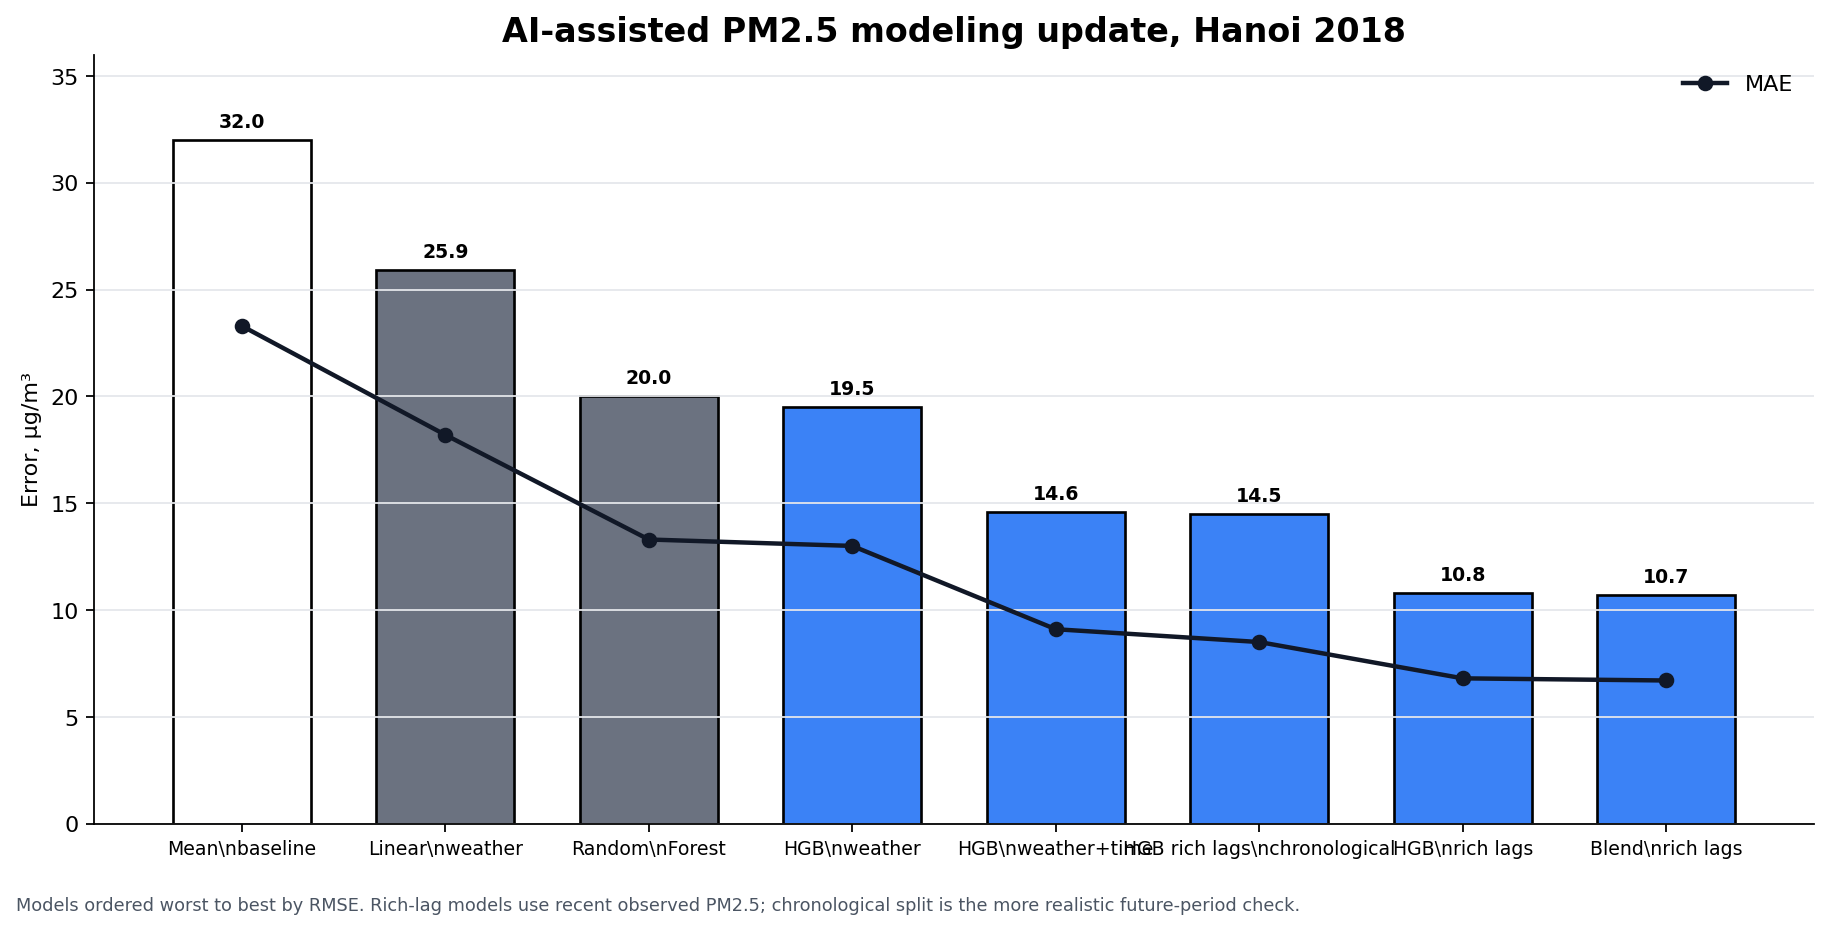
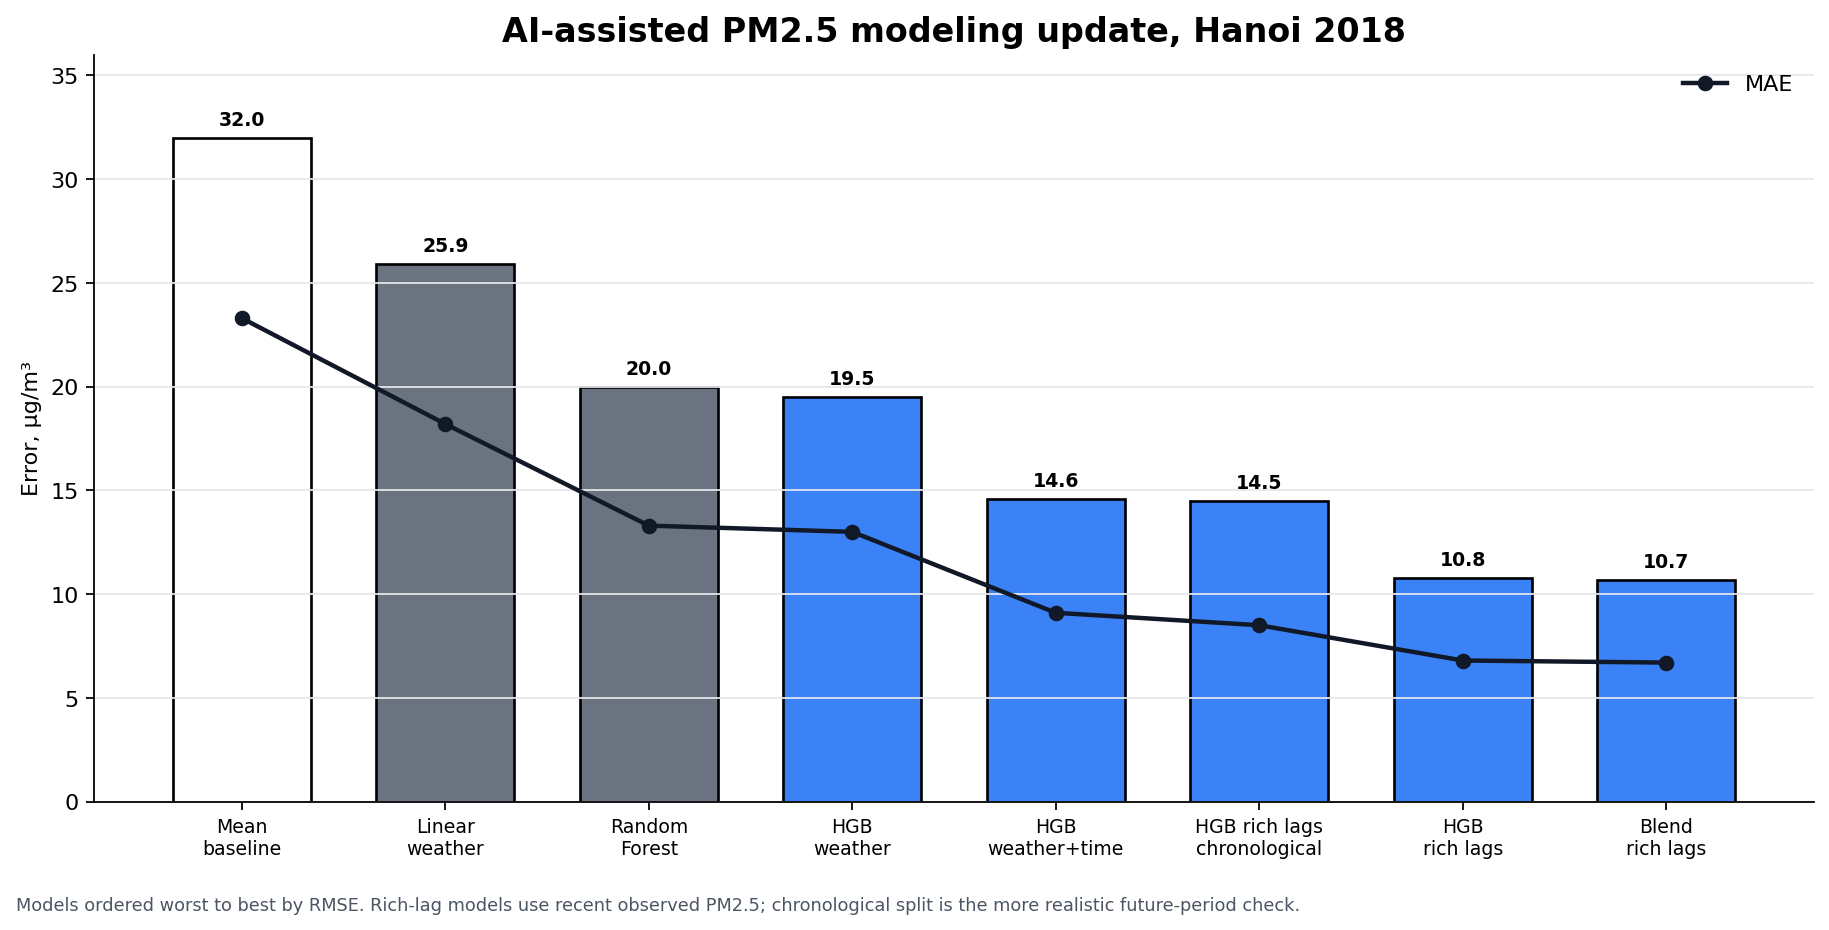
Fix line breaks in chart labels (\n → \n)
- Changed \\n to \n for proper line break rendering
- Chart now displays labels correctly across two lines
- File size: 93KB (regenerated)

diff --git a/scripts/generate_chart_from_notebook.py b/scripts/generate_chart_from_notebook.py
@@ -37,14 +37,14 @@ plot_df = pd.DataFrame(results_data)
 
 # Labels for display (worst to best)
 plot_df["label"] = [
-    "Mean\\nbaseline",
-    "Linear\\nweather",
-    "Random\\nForest",
-    "HGB\\nweather",
-    "HGB\\nweather+time",
-    "HGB rich lags\\nchronological",
-    "HGB\\nrich lags",
-    "Blend\\nrich lags",
+    "Mean\nbaseline",
+    "Linear\nweather",
+    "Random\nForest",
+    "HGB\nweather",
+    "HGB\nweather+time",
+    "HGB rich lags\nchronological",
+    "HGB\nrich lags",
+    "Blend\nrich lags",
 ]
 
 # Colors: simple scheme